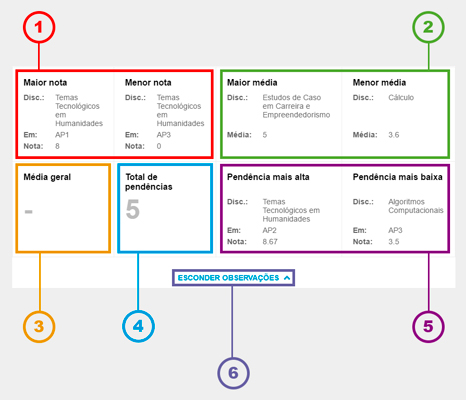
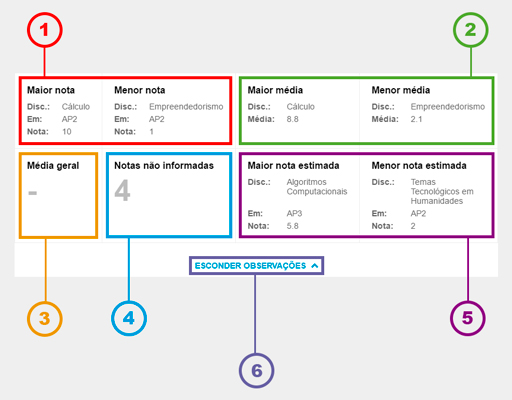
Update page: help

Changed region(s): [[0.03, 0.03, 0.9914, 0.87], [0.4506, 0.87, 0.5408, 0.99], [0.8712, 0.03, 0.9614, 0.12]]

diff --git a/pages/help.php b/pages/help.php
@@ -67,7 +67,7 @@
                                     <br>
                                     <p><strong>Observações:</strong></p>
                                     <p>1.	Não é necessário informar todas as notas;</p>
-                                    <p>2.	Nos campos são aceitos somente números de 0 a 10, os valores diferentes destes não serão considerados para o cálculo e sua avaliação será classificada como uma "pendência".</p>
+                                    <p>2.	Nos campos, são aceitos somente números de 0 a 10, os valores diferentes destes não serão considerados para o cálculo e sua avaliação será classificada como uma "pendência".</p>
                             	</ol>
                             </li>
                             <li>
@@ -76,9 +76,9 @@
                                 <ol>
 									<p>1.	Coluna onde são mostradas todas as disciplinas do semestre;</p>
                                     <p>2.	Colunas onde são mostradas as notas submetidas;</p>
-                                    <p>3.	Coluna onde é mostrada a média final, individual para cada disciplina (essa informação é mostrada somente quando todas as notas da respectiva disciplina são informadas);</p>
-                                    <p>4.	Coluna onde é mostrado o resultado de acordo com a média, ou seja, para médias abaixo de 5 pontos a coluna imprime "Reprovado", senão, imprime "Aprovado".</p>
-                                    <p>5.	Coluna onde são mostradas as pendências existentes, com os respectivos valores a serem alcançados para que se obtenha a média mínima de 5 pontos.</p>
+                                    <p>3.	Coluna onde é mostrada a média final, individual para cada disciplina (essa informação é mostrada somente quando todas as notas da respectiva disciplina são informadas ou quanto a média entre duas notas informadas for superior ou igual a 5,0 pontos);</p>
+                                    <p>4.	Coluna onde é mostrado o resultado de acordo com a média, ou seja, para médias abaixo de 5 pontos, a coluna imprime "Reprovado", senão, imprime "Aprovado".</p>
+                                    <p>5.	Coluna onde são mostradas as notas cujos valores são uma estimativa do que deve ser alcançado em determinada avaliação para que se obtenha a média mínima de 5 pontos na disciplina.</p>
                                     <br>
                                     <p><strong>Observações:</strong></p>
                                     <p>1.	Quando o usuário quiser saber a nota que deverá alcançar em determinada avaliação para ser aprovado, basta deixar o campo desta avaliação em branco quando submeter as notas para cálculo.</p>
@@ -91,14 +91,14 @@
                                     <p>1.	Colunas onde são mostradas, respectivamente, a maior e a menor notas obtidas nas avaliações;</p>
                                     <p>2.	Colunas onde são mostradas, respectivamente, a maior e a menor médias obtidas nas avaliações;</p>
                                     <p>3.	Coluna onde é mostrada a média geral obtida nas avaliações;</p>
-                                    <p>4.	Coluna onde é mostrado o número total de pendências existentes;</p>
-                                    <p>5.	Colunas onde são mostradas, respectivamente, a maior e a menor pendências existentes;</p>
+                                    <p>4.	Coluna onde é mostrado o número total de notas que não foram informadas ou que são inválidas;</p>
+                                    <p>5.	Colunas onde são mostradas, respectivamente, a maior e a menor estimativa existentes;</p>
                                     <p>6.	Botão para mostrar/esconder as observações.</p>
                                     <br>
                                     <p><strong>Observações:</strong></p>
-                                    <p>1.	As colunas "Maior nota", "Menor nota", "Maior média" e "Menor média" são preenchidas somente quando pelo menos uma nota válida é submetida na calculadora;</p>
+                                    <p>1.	As colunas "Maior nota", "Menor nota", "Maior média" e "Menor média" são preenchidas somente quando, pelo menos, uma nota válida é submetida na calculadora;</p>
                                     <p>2.	A coluna "Média geral" é preenchida somente quando TODAS as notas das disciplinas do semestre são válidas;</p>
-                                    <p>3.	As colunas "Pendência mais alta" e "Pendência mais baixa" são preenchidas somente quando pelo menos UMA nota não for informada ou não for válida.</p>
+                                    <p>3.	As colunas "Maior nota estimada" e "Menor nota estimada" são preenchidas somente quando, pelo menos, UMA nota não for informada ou não for válida.</p>
                                 </ol>
                             </li>
                         </ol>
